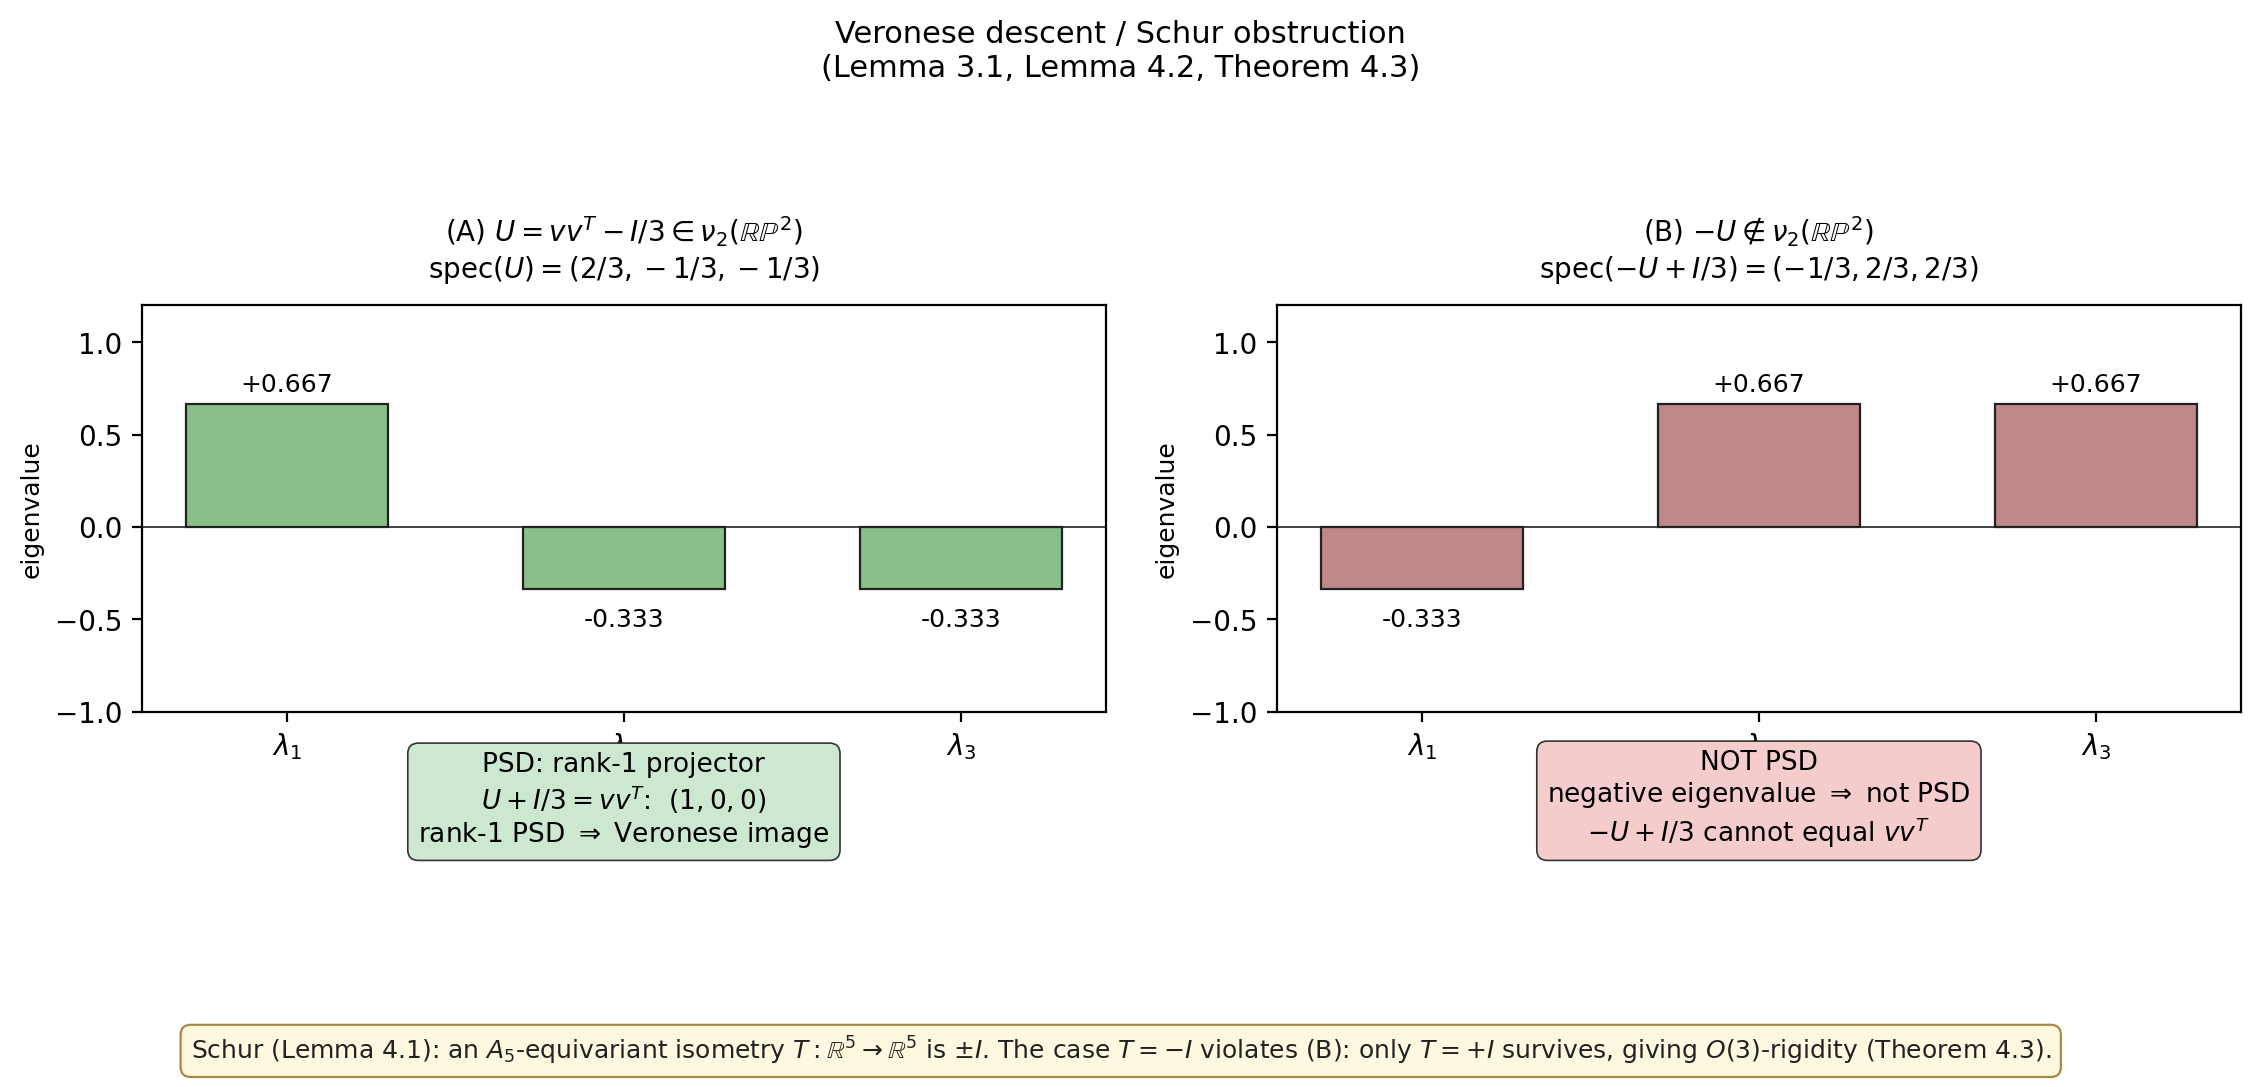
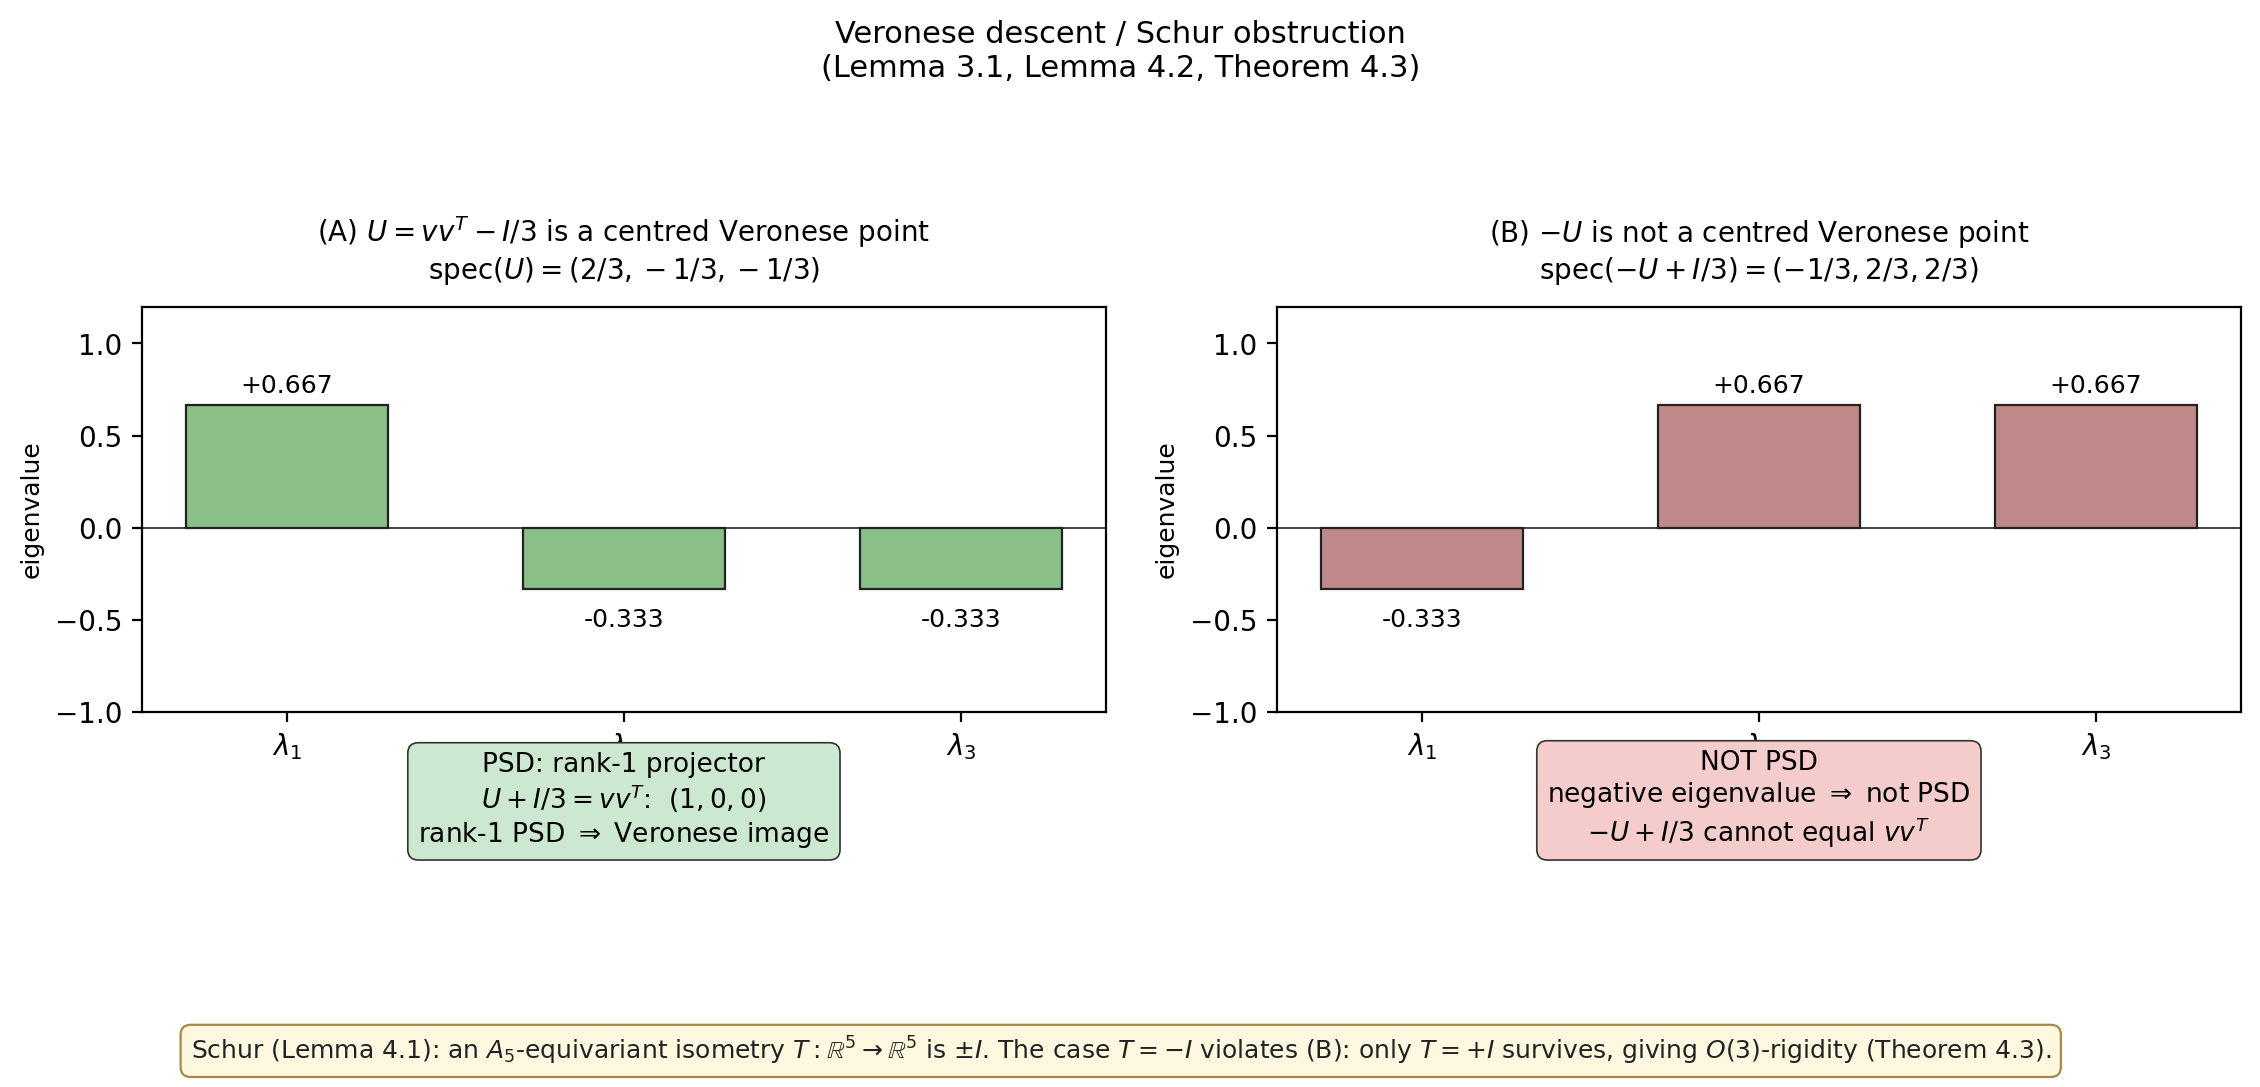
Initial veronese descent rigidity manuscript and certificates

diff --git a/scripts/figures/fig4_hinge_bridge.py b/scripts/figures/fig4_hinge_bridge.py
@@ -74,8 +74,8 @@ def draw_T0(ax):
     ax.set_zticks([])
     ax.view_init(elev=18, azim=30)
     ax.set_title("(A) Standard tetrahedron $T_0$\n"
-                 "$a_k = \\frac{1}{\\sqrt{3}}(\\pm 1, \\pm 1, \\pm 1)$ "
-                 "with even parity", fontsize=9)
+                 "$a_k = \\frac{1}{\\sqrt{3}}(\\pm 1, \\pm 1, \\pm 1)$, "
+                 "$\\prod \\mathrm{signs} = +1$", fontsize=9)
 
 
 # ----- Panel B: K_5-incidence -----
@@ -207,8 +207,8 @@ def draw_certificate(ax):
         ("partition TOTAL",            "1024",            "#222"),
         ("", "", "#222"),
         ("$16 \\times 2 = 32$ raw algebraic solutions", "", "#222"),
-        ("$\\Rightarrow$  all in icosahedral orbit", "", "#3a7d3a"),
-        ("(exact $(\\sigma, D)$ certificate, Theorem 5.5)", "", "#3a7d3a"),
+        ("$\\Rightarrow$ icosahedral orbit", "", "#3a7d3a"),
+        ("(exact $(\\sigma, D)$ + symmetry reduction)", "", "#3a7d3a"),
     ]
 
     y_top = 8.7

diff --git a/scripts/figures/fig3_schur_obstruction.py b/scripts/figures/fig3_schur_obstruction.py
@@ -59,7 +59,7 @@ def main():
     spec_bars(
         ax1, spec_U,
         color="#88c088",
-        title="(A) $U = v v^T - I/3 \\in \\nu_2(\\mathbb{RP}^2)$",
+        title="(A) $U = v v^T - I/3$ is a centred Veronese point",
         subtitle="$\\mathrm{spec}(U) = (2/3, -1/3, -1/3)$",
         is_psd=True,
         shift_label=("$U + I/3 = v v^T$:  $(1, 0, 0)$\n"
@@ -69,7 +69,7 @@ def main():
     spec_bars(
         ax2, spec_minus_U_plus_I3,
         color="#c08888",
-        title="(B) $-U \\notin \\nu_2(\\mathbb{RP}^2)$",
+        title="(B) $-U$ is not a centred Veronese point",
         subtitle="$\\mathrm{spec}(-U + I/3) = (-1/3, 2/3, 2/3)$",
         is_psd=False,
         shift_label=("negative eigenvalue $\\Rightarrow$ not PSD\n"

diff --git a/scripts/figures/fig1_proof_cascade.py b/scripts/figures/fig1_proof_cascade.py
@@ -55,7 +55,7 @@ def main():
         "Theorem 1: $K = 2E_1$\n(Bose–Mesner)",
         "Theorem 5.6: five-tetrahedra\nhinge bridge",
         "Theorem 4.3: Schur descent\n+ $-I$ spectral obstruction",
-        "Theorem 2 corollary:\n$H = V V^T$ factorisation",
+        "Theorem 3:\nrank-$3$ Gram factorisation",
     ]
 
     box_w = 7.8

diff --git a/paper/main.md b/paper/main.md
@@ -482,7 +482,7 @@ for each $x \in \{1,\ldots,5\}$, the **star around $x$** is the
 4-coclique
 
 $$
-C_x \;:=\; \left\{ \{x, y\} : y \in \{1,\ldots,5\} \setminus \{x\} \right\}
+C_x \;:=\; \left\lbrace  \{x, y\} : y \in \{1,\ldots,5\} \setminus \{x\} \right\rbrace 
         \;\subset\; V(K(5,2)).
 $$
 
@@ -493,7 +493,7 @@ Each Petersen vertex lies in exactly $2$ of the $5$ stars.
 > 4-cocliques:
 >
 > $$
-> \ker K = \mathrm{span}\left\{\mathbf{1}_{C_1},\ldots,\mathbf{1}_{C_5}\right\}.
+> \ker K = \mathrm{span}\left\lbrace \mathbf{1}_{C_1},\ldots,\mathbf{1}_{C_5}\right\rbrace .
 > $$
 
 *Proof.* By Theorem 1, $K = 2 E_1$ has rank $5$, so
@@ -705,10 +705,10 @@ $(c_1, s_1, \ldots, c_4, s_4)$.
 > *with discriminant $15$ and the two real roots*
 >
 > $$
-> s_4 \in \left\{
+> s_4 \in \left\lbrace 
 >   \frac{\sqrt{3} - \sqrt{15}}{8},\;
 >   \frac{\sqrt{3} + \sqrt{15}}{8}
-> \right\}
+> \right\rbrace 
 > \subset \mathbb{Q}(\sqrt{3}, \sqrt{5}).
 > $$
 >